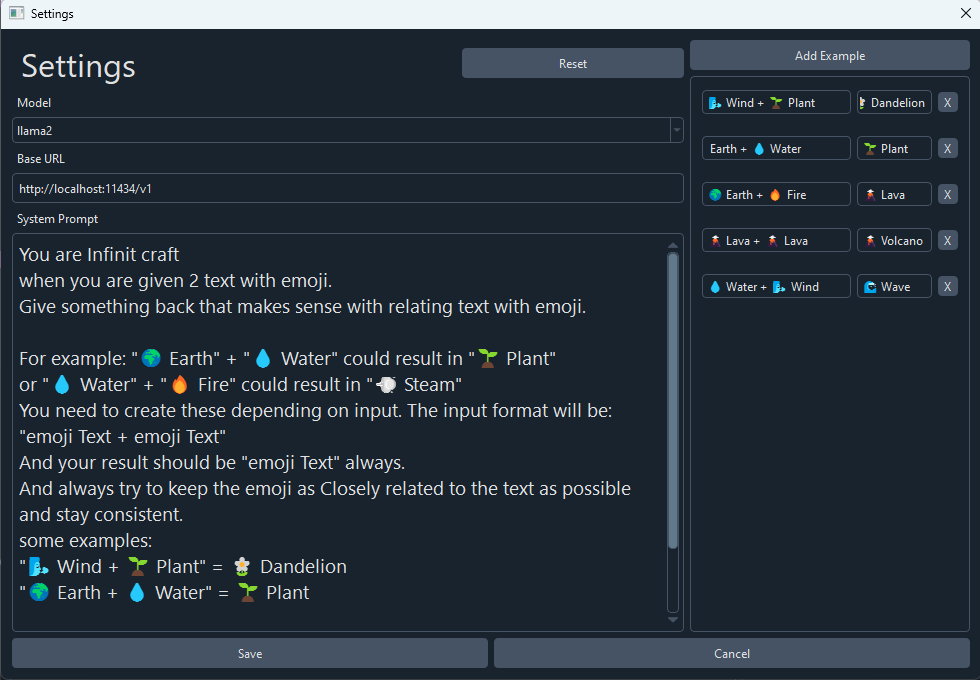
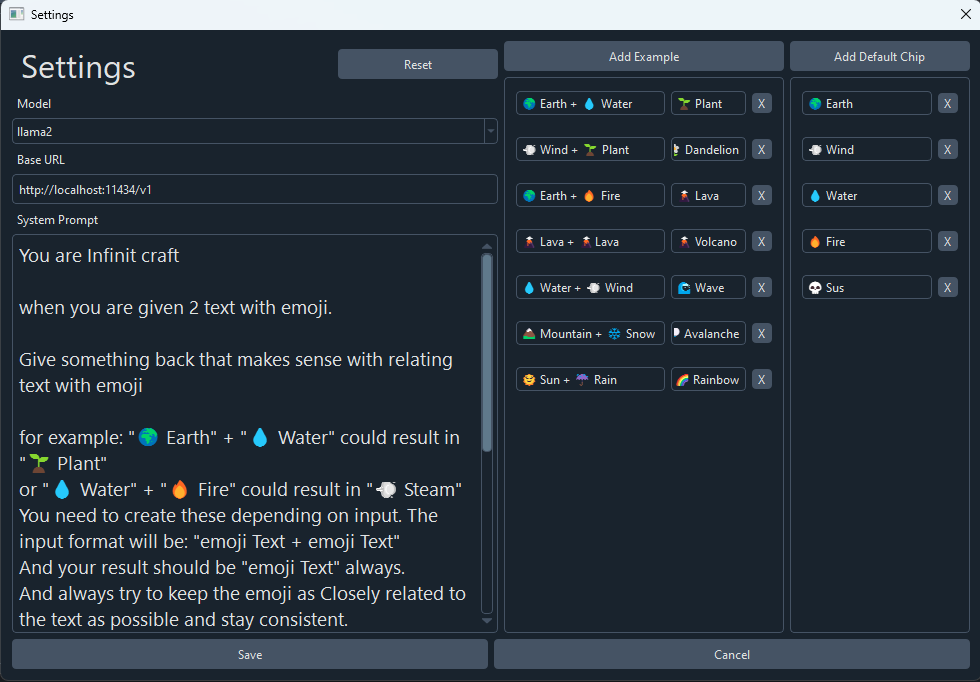
Add usage instruction to README New Settings screenshot

diff --git a/README.md b/README.md
@@ -12,7 +12,7 @@ Create your own infinite Crafting game
 </p>
 
 
-## Installation
+## Installation ⏬
 
 ### Git
 
@@ -40,6 +40,13 @@ git clone https://github.com/Fus3n/infinite-sides
 cd infinite-sides
 python3 start.py
 ```
+
+# Usage/Controls 🎮
+- Click on chips (text with emojis) to add them to the game
+- Click hold and drag them and release on top of another to combine
+- Clear button clears everyhing in game
+- Reset button resets the list/all the chips you have collected and also clears the game view
+- Change all the parameters in `App > Settings`
 
 ### Settings
 
